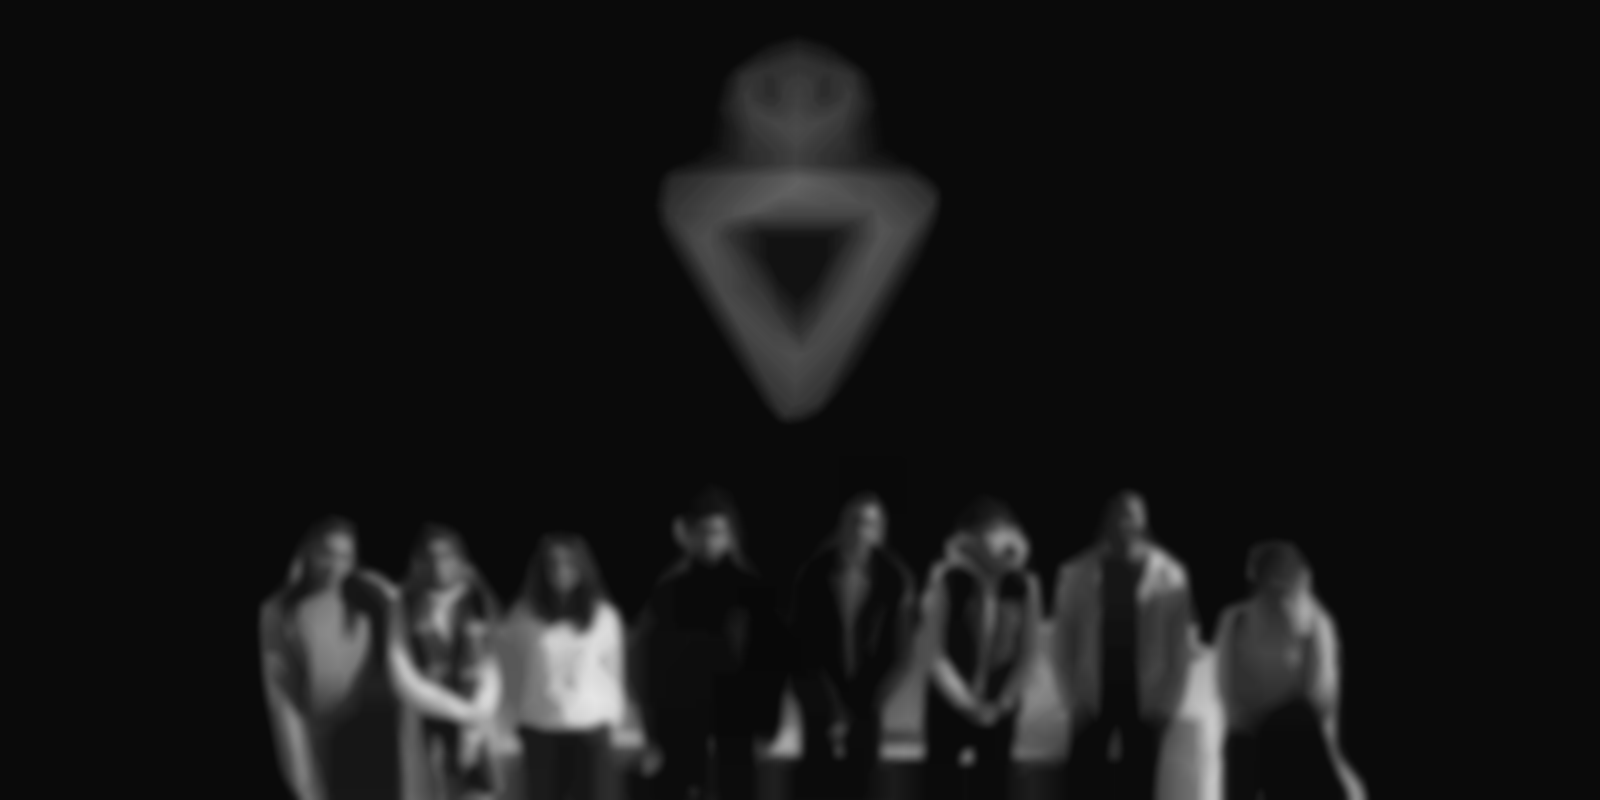
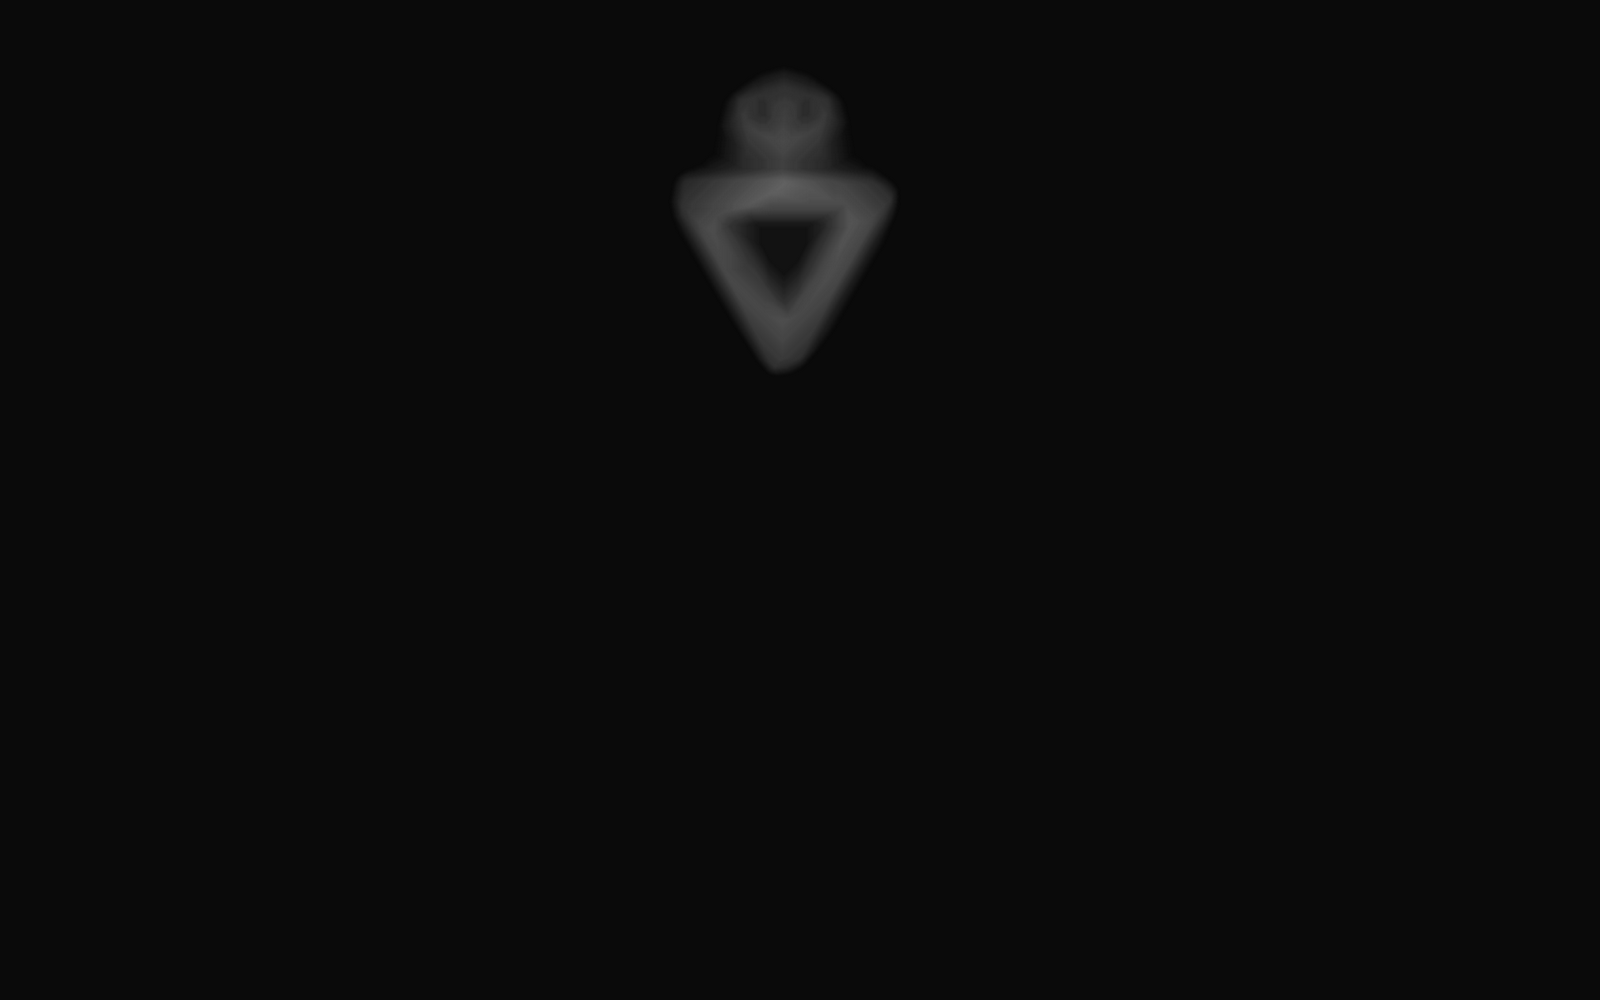
Add files via upload

diff --git a/index.html b/index.html
@@ -9,7 +9,7 @@
 <body>
 <!-- partial:index.partial.html -->
 <div class="container">
-  <h1 id="headline">rebuilding <a style = "color:greenyellow">E</a><a style = "color:red">M</a><a style = "color:blue;text-transform: none;font-size: 1.4em;">&pi;</a><a style = "color:yellow">M</a><a style = "color:gray">O</a> ... <br> this make take some fractions of a year ;)</h1>
+  <h1 id="headline">rebuilding <a style = "color:greenyellow">E</a><a style = "color:red">M</a><a style = "color:blue;text-transform: none;font-size: 1.4em;">&pi;</a><a style = "color:yellow">M</a><a style = "color:gray">O</a> ... <br> this make take some fractions of years</h1>
   <div id="countdown">
     <ul>
       <li><span id="days"></span>days</li>
@@ -24,8 +24,11 @@
     <span>🎂</span>
   </div>
 </div>
+
 <!-- partial -->
   <script  src="./script.js"></script>
-  
+  <div class="footer">
+    <img alt = "collective foogy picture" src="./images/footer.png" width="40%">
+  </div>
 </body>
 </html>

diff --git a/style.css b/style.css
@@ -17,7 +17,9 @@ html, body {
 body {
   align-items: center;
   background-image: url(images/back.png);
-  background-size: contain;
+  background-color: #0A0A0A;
+  background-size:100%;
+  background-repeat: no-repeat;
   display: flex;
   font-family: -apple-system, 
     BlinkMacSystemFont, 
@@ -77,4 +79,13 @@ li span {
   li span {
     font-size: calc(3.375rem * var(--smaller));
   }
+}
+
+.footer {
+  position: fixed;
+  left: 0;
+  bottom: 0;
+  width: 100%;
+  color: white;
+  text-align: center;
 }
